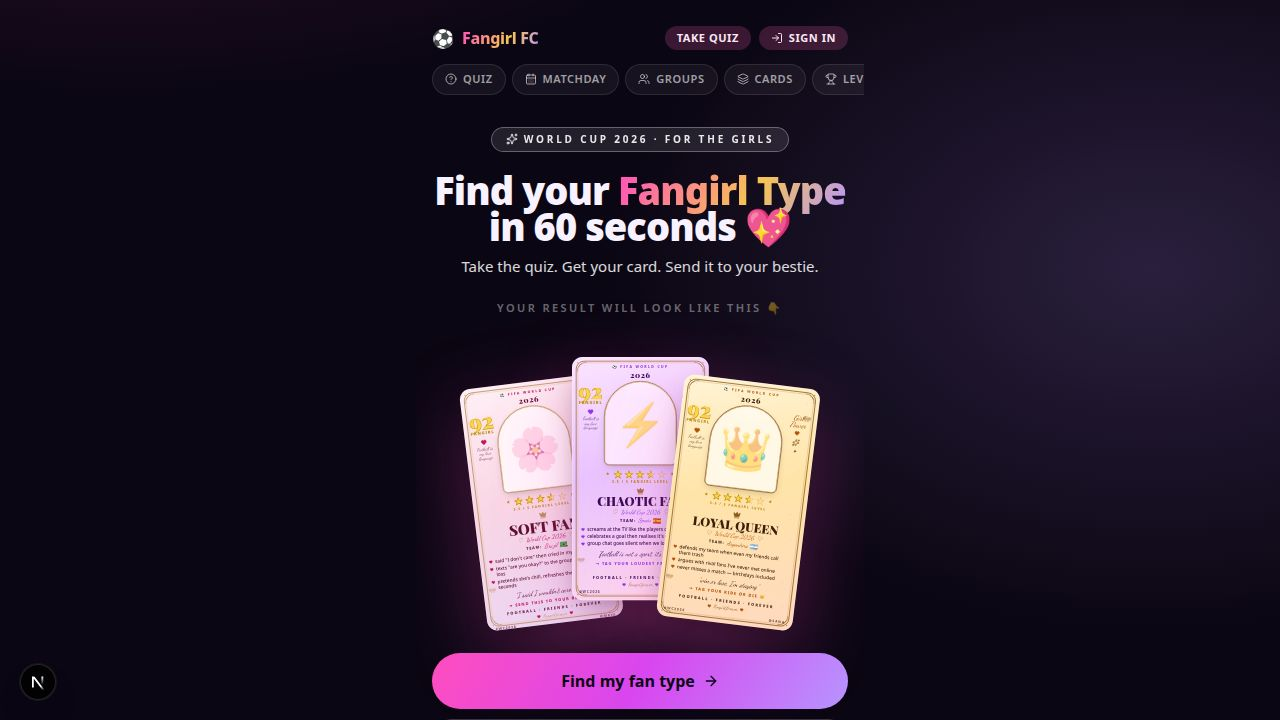
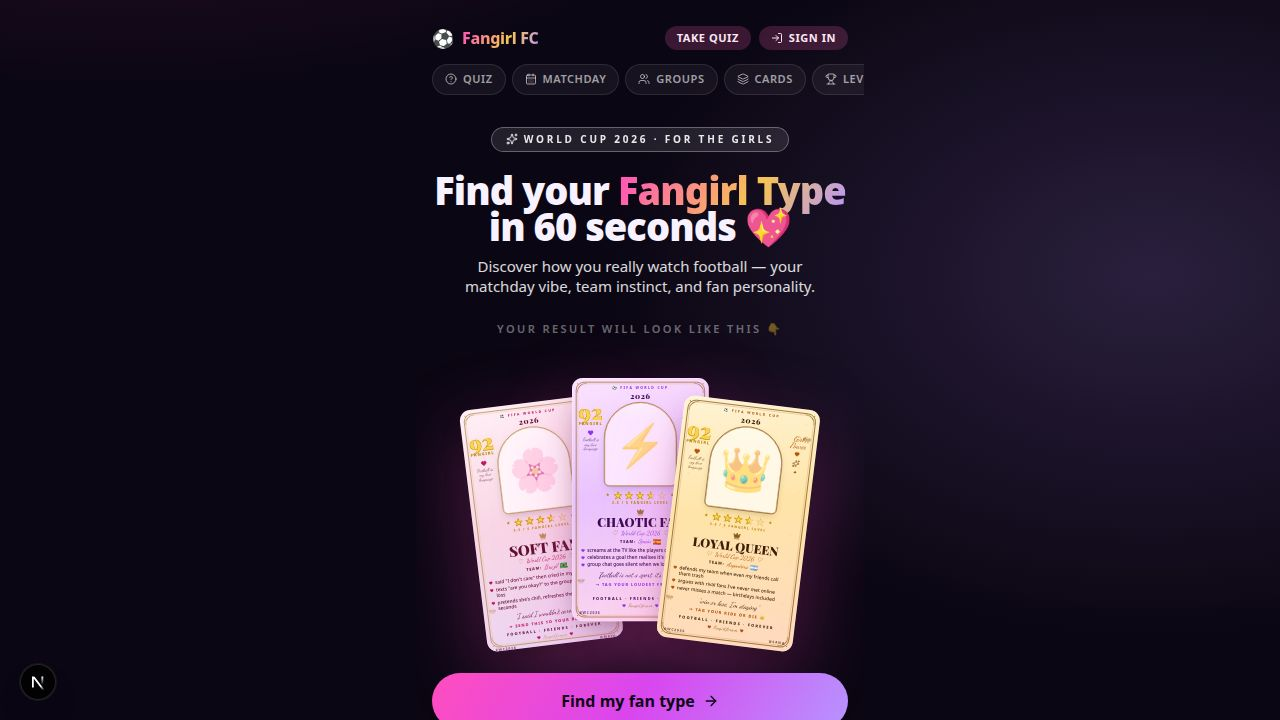
Refine website copy to emphasize football context and user experience
Update website copy, branding, and navigation links across multiple components to more strongly emphasize the football theme and improve user flow.

Replit-Commit-Author: Agent
Replit-Commit-Session-Id: 4ccf04d0-641b-4e72-98a9-d6b1c4ba5d8d
Replit-Commit-Checkpoint-Type: full_checkpoint
Replit-Commit-Event-Id: 9c27084c-c055-46dc-9096-b3ff8b033b65
Replit-Commit-Screenshot-Url: https://storage.googleapis.com/screenshot-production-us-central1/a720abb0-b8dc-453a-9119-396b098a3e45/4ccf04d0-641b-4e72-98a9-d6b1c4ba5d8d/FCTiCaa
Replit-Helium-Checkpoint-Created: true

Changed region(s): [[0.3125, 0.4889, 0.6875, 1.0], [0.3438, 0.3667, 0.6562, 0.4583]]

diff --git a/artifacts/fangirl-fc/components/LandingHero.tsx b/artifacts/fangirl-fc/components/LandingHero.tsx
@@ -115,7 +115,7 @@ export function LandingHero() {
             in 60 seconds 💖
           </h1>
           <p className="mt-3 px-4 text-[15px] leading-snug text-white/85">
-            Take the quiz. Get your card. Send it to your bestie.
+            Discover how you really watch football — your matchday vibe, team instinct, and fan personality.
           </p>
         </div>
 
@@ -165,7 +165,7 @@ export function LandingHero() {
 
           {/* Trust / friction line */}
           <p className="mt-0.5 text-center text-[11px] text-white/45">
-            No signup &nbsp;·&nbsp; 5 questions &nbsp;·&nbsp; Just for fun
+            No signup &nbsp;·&nbsp; 5 football questions &nbsp;·&nbsp; Just for fun
           </p>
         </div>
       </section>
@@ -179,8 +179,8 @@ export function LandingHero() {
           ⚽
         </div>
         <p className="relative text-[16px] font-bold leading-snug text-white/95">
-          Made for girls who watch football for the{" "}
-          <span className="gradient-text">vibes, the drama,</span> and the
+          Made for girls turning football into{" "}
+          <span className="gradient-text">vibes, drama, predictions,</span> and
           memories.
         </p>
       </section>
@@ -210,7 +210,7 @@ export function LandingHero() {
             return (
               <Link
                 key={f.id}
-                href={`/card?id=${f.id}`}
+                href="/quiz"
                 className="group relative overflow-hidden rounded-2xl border border-white/15 p-3.5 transition active:scale-[0.98]"
                 style={{ background: t.background }}
               >
@@ -263,20 +263,20 @@ export function LandingHero() {
           {[
             {
               n: "1",
-              title: "Answer 5 questions",
-              copy: "Tell us how you really watch football.",
+              title: "Answer 5 football questions",
+              copy: "Tell us how you watch, react, learn, and support.",
               tint: "from-pink-400/30 to-rose-400/10",
             },
             {
               n: "2",
-              title: "Get your Fangirl Card",
-              copy: "Your type, vibe, score, and team mood.",
+              title: "Get your fan identity",
+              copy: "Your matchday vibe, team instinct, and football personality.",
               tint: "from-fuchsia-400/30 to-violet-400/10",
             },
             {
               n: "3",
-              title: "Send it to your bestie",
-              copy: "Compare results and start the group chat drama.",
+              title: "Make your Fangirl Card",
+              copy: "Turn your result into a card and send it to your bestie.",
               tint: "from-amber-300/30 to-pink-300/10",
             },
           ].map((s) => (
@@ -305,7 +305,7 @@ export function LandingHero() {
       {/* ---------------- UNLOCKED IDENTITIES — lower, with context ---------------- */}
       <section>
         <p className="mb-2 text-center text-[11px] text-white/35">
-          Unlock more types after your first result.
+          Take the quiz to start unlocking fan identities.
         </p>
         <UnlockedIdentities />
       </section>

diff --git a/artifacts/fangirl-fc/components/ResultCard.tsx b/artifacts/fangirl-fc/components/ResultCard.tsx
@@ -225,6 +225,13 @@ export function ResultCard({ identity, compareToId, matchId }: Props) {
         </div>
       )}
 
+      {/* ── Football fan personality heading ── */}
+      <div className="px-1 text-center">
+        <p className="text-[11px] font-bold uppercase tracking-[0.22em] text-white/45">
+          Your football fan personality
+        </p>
+      </div>
+
       {/* Identity card with aura */}
       <div className="relative">
         <div
@@ -385,7 +392,7 @@ export function ResultCard({ identity, compareToId, matchId }: Props) {
             </div>
             <div className="text-[11px] text-white/65">
               {remaining > 0
-                ? `${remaining} left to discover · try different answers`
+                ? `${remaining} more football personalities to discover`
                 : "You've unlocked them all. Iconic."}
             </div>
           </div>
@@ -408,7 +415,7 @@ export function ResultCard({ identity, compareToId, matchId }: Props) {
           href={cardHref}
           className="shine-button flex items-center justify-center gap-2 rounded-full px-6 py-4 text-base"
         >
-          Make my Fangirl Card
+          Turn this into my Fangirl Card
           <ArrowRight className="h-4 w-4" />
         </Link>
         {remaining > 0 && (

diff --git a/artifacts/fangirl-fc/lib/stars.ts b/artifacts/fangirl-fc/lib/stars.ts
@@ -101,15 +101,15 @@ export function resetStars() {
 
 export function getNextHint(stars: number, actions: StarAction[]): string {
   if (!actions.includes("quiz_completed"))
-    return "Take the quiz to unlock your fan identity";
+    return "Take the quiz to discover your football fan identity";
   if (!actions.includes("card_generated"))
-    return "Next level: generate your fan card";
+    return "Next level: turn your result into your Fangirl Card";
   if (!actions.includes("card_shared"))
-    return "Next level: share your card";
+    return "Next level: show the group chat your football fan type";
   if (!actions.includes("compare_friend"))
-    return "Next level: a friend takes the compare quiz";
-  if (stars >= MAX_STARS) return "Max stars unlocked, you certified fan";
-  return "Keep sharing to unlock more";
+    return "Next level: compare your football type with a friend";
+  if (stars >= MAX_STARS) return "Max stars unlocked — you certified fan";
+  return "Keep sharing to earn more matchday stars";
 }
 
 export function snapshot(): { stars: number; actions: StarAction[] } {

diff --git a/artifacts/fangirl-fc/components/UnlockedIdentities.tsx b/artifacts/fangirl-fc/components/UnlockedIdentities.tsx
@@ -23,10 +23,10 @@ export function UnlockedIdentities() {
       <div className="flex items-center justify-between">
         <div>
           <div className="text-sm font-bold text-white/90">
-            Unlocked Identities
+            Fan Identity Collection
           </div>
           <div className="text-[11px] text-white/55">
-            {unlocked.length}/{total} identities unlocked
+            {unlocked.length}/{total} football fan types unlocked
           </div>
         </div>
         <Link
@@ -36,6 +36,9 @@ export function UnlockedIdentities() {
           Unlock more
         </Link>
       </div>
+      <p className="mt-2 text-[11px] text-white/35">
+        Unlock more fan identities as you play, predict, and learn football.
+      </p>
       <div className="mt-3 grid grid-cols-3 gap-2">
         {FAN_TYPE_LIST.map((f) => {
           const isUnlocked = unlocked.includes(f.id);

diff --git a/artifacts/fangirl-fc/app/quiz/page.tsx b/artifacts/fangirl-fc/app/quiz/page.tsx
@@ -48,13 +48,18 @@ function QuizInner() {
     <div className="flex flex-col gap-5">
       <div>
         <h1 className="text-2xl font-black">
-          {match ? "Matchday Quiz" : "The Fangirl Quiz"}
+          {match ? "Matchday Quiz" : "The Football Fangirl Quiz"}
         </h1>
         <p className="mt-1 text-sm text-white/60">
           {match
             ? matchHeadline(match)
-            : "Pick the option that's most you. No wrong answers, only chaos."}
+            : "Find out how you really watch football — your matchday energy, team loyalty, rules instinct, and group chat vibe."}
         </p>
+        {!match && (
+          <p className="mt-1 text-[11px] text-white/40">
+            5 questions · no signup · just your football era
+          </p>
+        )}
       </div>
       <Quiz compareTo={compareTo} matchId={match?.id} />
     </div>
